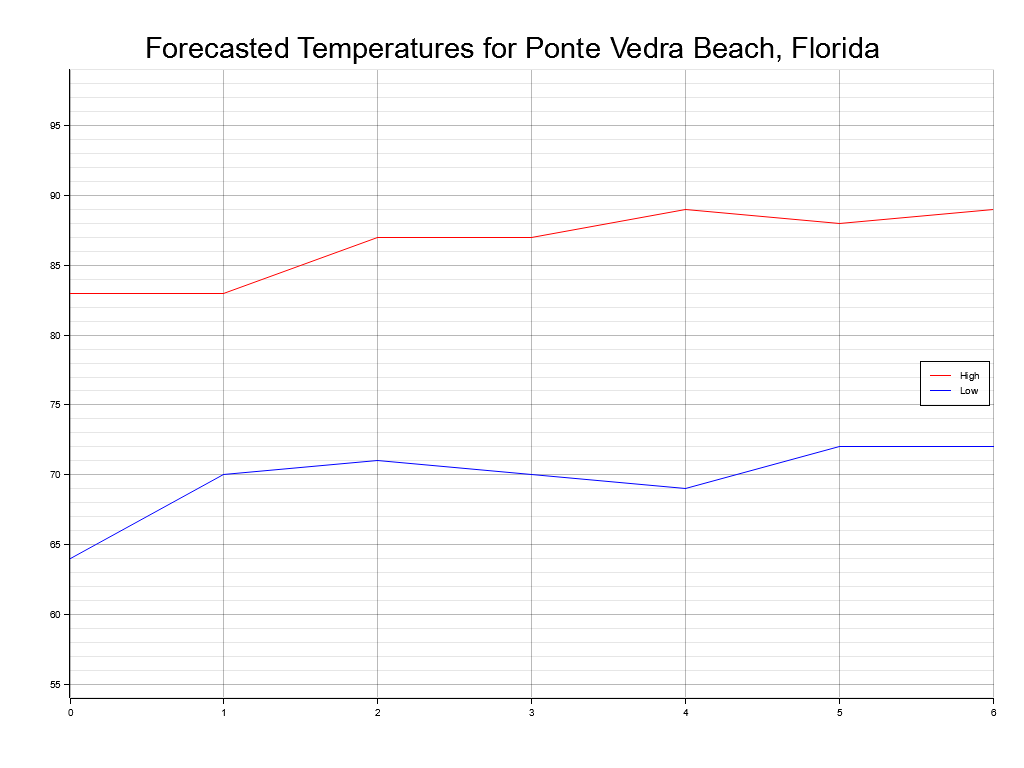
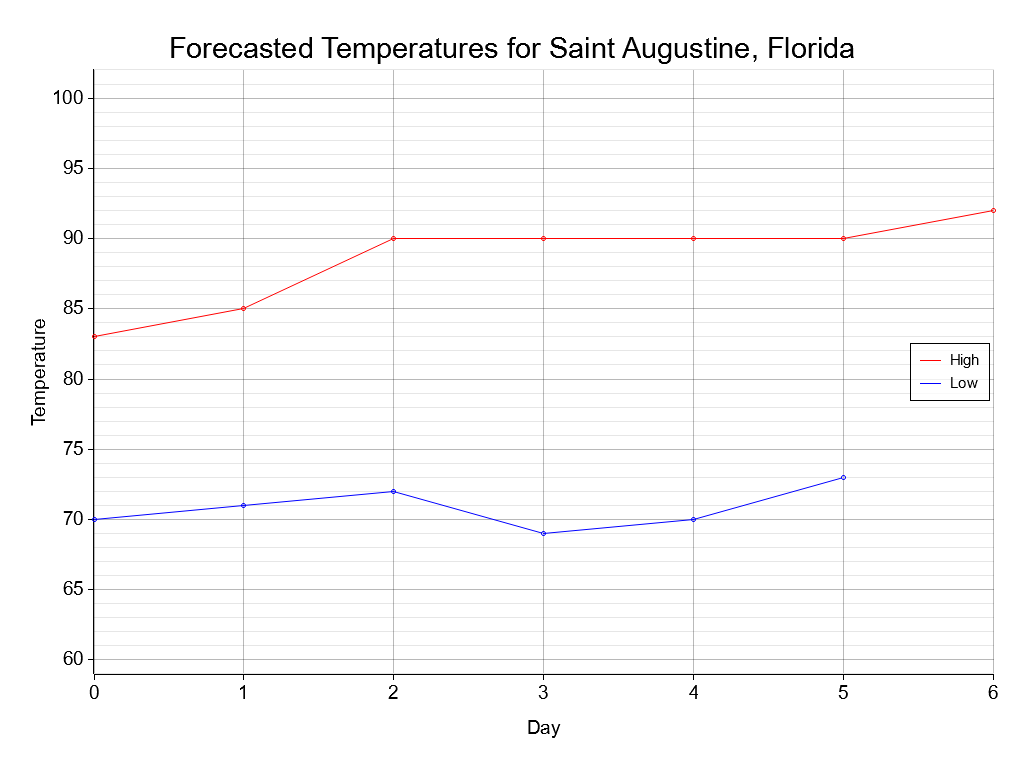
Enhancements to temp graph

Changed region(s): [[0.0312, 0.0312, 0.9688, 0.9688]]

diff --git a/src/commands/wx.rs b/src/commands/wx.rs
@@ -230,39 +230,53 @@ fn create_forecast_graph(city: &str, state: &str, label: &str, temps: &[i32]) ->
 
     let mut chart = ChartBuilder::on(&root_area)
         .margin(30)
-        .set_label_area_size(LabelAreaPosition::Left, 40)
-        .set_label_area_size(LabelAreaPosition::Bottom, 40)
+        .set_label_area_size(LabelAreaPosition::Left, 64)
+        .set_label_area_size(LabelAreaPosition::Bottom, 64)
         .caption(format!("Forecasted Temperatures for {city}, {state}"), ("sans-serif", 36))
         .build_cartesian_2d(0..6, (min - 10)..(max + 10))
         .unwrap();
 
-    chart.configure_mesh().draw().unwrap();
     chart
-        .draw_series(LineSeries::new(
-            temp_highs.iter().enumerate().map(|(i, temp)| {
-                let x = i as i32;
-                let y = *temp;
-                (x, y)
-            }),
-            &RED,
-        ))
+        .configure_mesh()
+        .x_desc("Day")
+        .y_desc("Temperature")
+        .label_style(("sans-serif", 24))
+        .draw()
+        .unwrap();
+    chart
+        .draw_series(
+            LineSeries::new(
+                temp_highs.iter().enumerate().map(|(i, temp)| {
+                    let x = i as i32;
+                    let y = *temp;
+                    (x, y)
+                }),
+                &RED,
+            )
+            .point_size(2),
+        )
         .unwrap()
         .label("High")
         .legend(|(x, y)| PathElement::new(vec![(x, y), (x + 20, y)], RED));
     chart
-        .draw_series(LineSeries::new(
-            temp_lows.iter().enumerate().map(|(i, temp)| {
-                let x = i as i32;
-                let y = *temp;
-                (x, y)
-            }),
-            &BLUE,
-        ))
+        .draw_series(
+            LineSeries::new(
+                temp_lows.iter().enumerate().map(|(i, temp)| {
+                    let x = i as i32;
+                    let y = *temp;
+                    (x, y)
+                }),
+                &BLUE,
+            )
+            .point_size(2),
+        )
         .unwrap()
         .label("Low")
         .legend(|(x, y)| PathElement::new(vec![(x, y), (x + 20, y)], BLUE));
     chart
         .configure_series_labels()
+        .label_font(("sans-serif", 18))
+        .position(SeriesLabelPosition::MiddleRight)
         .border_style(BLACK)
         .background_style(WHITE.mix(0.8))
         .draw()
